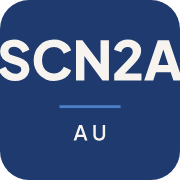
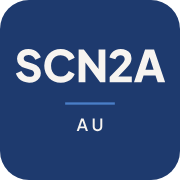
Add 8% safe margin to monogram and mulberry colour variants
https://claude.ai/code/session_014cXBuiv51ytFDKxGEERmaX

Changed region(s): [[0.0, 0.1944, 1.0, 0.4722], [0.3889, 0.6389, 0.6111, 0.8056], [0.3056, 0.5556, 0.6944, 0.6111]]

diff --git a/logo.jsx b/logo.jsx
@@ -39,6 +39,7 @@ function Logo({ layout = 'stacked', scale = 1, text = '#0D1B2A', accentName = '#
 
 // ----- Compact monogram (app icon / favicon / small avatar) ------------------
 // Typographic only: "SCN2A" stacked over a hairline + "AU".
+// Ratios keep "SCN2A" at ≤84% of the tile width (8% safe margin each side).
 function Monogram({ size = 120, bg = '#1E3A6E', fg = '#F7F4F0', accent = '#4A7EC7', rounded = true }) {
   return (
     React.createElement('div', {
@@ -48,9 +49,9 @@ function Monogram({ size = 120, bg = '#1E3A6E', fg = '#F7F4F0', accent = '#4A7EC
         fontFamily: "'Plus Jakarta Sans', sans-serif", lineHeight: 1,
       }
     },
-      React.createElement('div', { style: { fontWeight: 800, fontSize: size * 0.3 + 'px', letterSpacing: '-0.01em', color: fg } }, 'SCN2A'),
-      React.createElement('div', { style: { width: size * 0.34, height: Math.max(2, size * 0.016), background: accent, margin: size * 0.085 + 'px 0' } }),
-      React.createElement('div', { style: { fontWeight: 600, fontSize: size * 0.115 + 'px', letterSpacing: '0.2em', color: fg } }, 'AU')
+      React.createElement('div', { style: { fontWeight: 800, fontSize: size * 0.244 + 'px', letterSpacing: '-0.01em', color: fg } }, 'SCN2A'),
+      React.createElement('div', { style: { width: size * 0.276, height: Math.max(2, size * 0.013), background: accent, margin: size * 0.069 + 'px 0' } }),
+      React.createElement('div', { style: { fontWeight: 600, fontSize: size * 0.093 + 'px', letterSpacing: '0.2em', color: fg } }, 'AU')
     )
   );
 }
